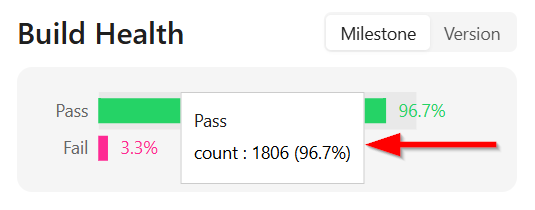
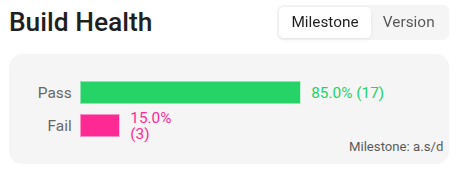
dashboard docs

diff --git a/docs/zeuz-server/dashboard-page.md b/docs/zeuz-server/dashboard-page.md
@@ -1,18 +1,41 @@
 ---
 id: dashboard-page
-title: Dashboard Page
+title: Dashboard
 sidebar_position: 1
 ---
 
 import Highlight from '@site/src/components/Highlight';
 
-The Dashboard page is the main overview screen of a software platform that displays key information, metrics, and summaries in a single place. It gives users a quick understanding of the current status of their projects, tests, or system health.
+import MetaCard from '@site/src/components/MetaCard';
 
-![](/img/dashboard-page/Dashboard.png)
+The ZeuZ dashboard is the main overview screen that gives you a quick look at your projects, tests, and overall system health.
+It provides key metrics, summaries, and information to help you understand what's happening at a glance.
 
----
+<MetaCard
+  availableFrom="20250712"
+  difficulty="🟢 Easy"
+  lastUpdated="17 Sep, 2025"
+  tags={["overview", "monitoring", "system metrics", "progress tracking", "test analytics", "performance insights", "visual summary"]}
+  relatedTopics={["ZeuZ features", "ZeuZ node", "zAI - Explain test case", "AI web recorder", "Data collector", "AI mobile inspector"]}
+/>
 
-## Explanation of the Dashboard Page
+![](/img/dashboard-page/full-dashboard.png)
+
+### Why it matters / Use Cases:
+
+  -   You immediately see _if your automation infrastructure is alive_: how many nodes are connected, license validity. If a node drops you don’t have to wait for manual reports. 
+	-   You catch quality shifts fast - “Build Health” and “Build Comparison” show at a glance whether a recent build broke things or got better. 
+	-   Prioritization becomes clear: failures in high priority (P1, P2) tests are highlighted, so you can focus on the biggest risks first.  
+	-   You see how much of your tests are automatable vs hard vs not automatable. That helps you plan: where to invest automation efforts. 
+	-   You can track momentum: how many test cases are being created daily - good for spotting slowdowns in coverage expansion. 
+	-   Scheduler status tells you if scheduled runs are failing so you don’t have “blind spots” in your test suite.  
+	-   Storage & orphaned test cases sections help maintain hygiene: clean up drift in test catalog & avoid wasted space or legacy cruft. 
+	-   GitHub integration gives traceability: link PR activity & issues with test results, good for debugging why things broke.
+
+## Prerequisites
+- The dashboard doesn’t require any setup. However, to get the most out of it, we recommend maintaining milestones and integrating GitHub.
+
+## Features
 
 ### ZeuZ Node Area
 **1. ZeuZ Node Description Box**
@@ -28,12 +51,9 @@ The Dashboard page is the main overview screen of a software platform that displ
      - **Changelog**: Shows version updates and improvements.
      - **Docs**: Opens the full documentation for user guidance.
 
-![](/img/dashboard-page/dashboard-node.png)
+![](/img/dashboard-page/node-links.png)
 
-
----
-
-## License and Node Information
+### License and Node Information
 The node section has been added to display the license information. It also shows the list of currently connected nodes. This section will become scrollable if there are more than four connected nodes.
 
 Here is a summary of the details:
@@ -58,8 +78,6 @@ The connected nodes are:
 
 ![](/img/dashboard-page/license-node.png)
 
----
-
 ### Build Health
 Build Health refers to the overall quality and stability of a software build, as determined by the results of automated or manual test cases executed during the build process. It is basically a chart showing the pass and fail status of the current build.
 
@@ -75,17 +93,11 @@ Build Health displays two key metrics, such as:
 
 However, in the **Build Health** section, without requiring any hover action, it will now show percentage values beside the metrics, for example, test results: **94.3% Passed (33)** and **5.7% Failed (2)**. These insights will be visible directly, without the need to hover. Additionally, the selected **Milestone** or **Version** will be displayed below the build health summary. 
 
+![](/img/dashboard-page/build-health.png)
+
 :::note
 In the **Build Health** section, if no data is available, it will display as zero.
 :::
-
-### Example
-
-|  Build Health with Pass and Fail metrics  |  Build Health with No Data                |
-|-------------------------------------------|-------------------------------------------|
-| ![](/img/dashboard-page/build-count.png)  |  ![](/img/dashboard-page/build-zero.png)  |
-
----
 
 ### Automatability
 Automatability refers to how easily and effectively a test can be automated using automation tools or frameworks. In this context, the chart shown is a **Donut chart**, which is commonly used to represent proportions or distributions. The chart is divided into segments, each representing a different category of automatability.
@@ -103,16 +115,14 @@ Automatability refers to how easily and effectively a test can be automated usin
 
 Under our server, test cases are categorized based on their level of automatability. In the **Automatability** section, users can now view the total number of test cases and see what percentage of them are "Automated", "Easily Automatable", or "Hard to Automate", etc., without the need to hover.
 For example, there are:
-- **4886 automated test cases (84.5%)**, 
-- **866 test cases that are easily automatable (15.0%)**, 
-- **14 test cases that are hard to automate (0.2%)**, 
-- **6 test cases that are not automatable (0.1%)**, 
-- **7 test cases that are under performance (0.1%)**,  
-- **2 undefined test cases (0.0%)**.
+- **4937 automated test cases (85%)**, 
+- **866 test cases that are easily automatable (15%)**, 
+- **14 test cases that are hard to automate (0%)**, 
+- **6 test cases that are not automatable (0%)**, 
+- **7 test cases that are under performance (0%)**,  
+- **2 undefined test cases (0%)**.
 
-![](/img/dashboard-page/easily-automatable.png)
-
----
+![](/img/dashboard-page/automatability.png)
 
 ### Build Comparison
 Build Comparison refers to the process of comparing the test results of two or more software builds to identify changes in quality, functionality, or performance overtime.
@@ -130,14 +140,11 @@ At the top, there are toggle options for **Milestone** and **Version**. When **M
 
 Here, the **June** milestone is the current build, while the others are previous builds.
 
----
-
 ### PBC (Priority Based Comparison)
 Priority Based Comparison refers to the process of comparing test results based on the priority levels assigned to test cases. It allows users to analyze test results based on different priority levels, such as **P1**, **P2**, **P3** and **P4**.
 
 In case of **PBC (Priority Based Comparison)**, when the **Current**, **Previous**, **Milestone** or **Version** is selected, the selected **Current / Previous Milestone** or **Current / Previous Version** will be displayed below the PBC section. Additionally, as before, the **Fail** status includes both failed and blocked test cases, and the **Not Run** status includes both "Skipped" and "Submitted" test cases.
 
-### Example
 The following image displays a tooltip or data breakdown for a test priority category labeled **P1**. It shows the execution status of test cases under this priority:
 - **Pass: 30**  
   A total of thirty test cases have passed.
@@ -150,16 +157,10 @@ The following image displays a tooltip or data breakdown for a test priority cat
 
 The chart also displays the number of test cases that are passing, failing, and not running within each priority level. Additionally, hovering over the **Current** label reveals the name of the most recent build, and this comparison can be used across milestones or versions to track how test cases are performing based on their assigned priorities.
 
-![](/img/dashboard-page/pbc-chart.png)
-
----
-
 ### Test Case Create Velocity
 Test Case Create Velocity refers to the rate at which test cases are being created over a defined period of time. It mainly shows the number of test cases created each day over the past 30 days. It helps to understand the number of test cases on specific dates, providing a date-wise breakdown of test case creation activity.
 
 ![](/img/dashboard-page/test-velocity.png)
-
----
 
 ### Scheduler Health
 Scheduler Health refers to the current status of the schedulers in an automation system.
@@ -171,40 +172,31 @@ If a scheduler shows a **green** sign, it means the test was successfully execut
 
 ![](/img/dashboard-page/sche-health.png)
 
----
-
 ### Orphaned Test Cases
 Orphaned Test Cases are test cases that are no longer linked to any active or valid test set. They exist in the system but are not part of any current testing activity or structure.
 
 ![](/img/dashboard-page/orphaned-test-cases.png)
 
----
-
 ### Storage
 The Storage section has been upgraded. It now displays a visual design on the right side, along with detailed information showing how much space each item is using. For example:
-- **Free Space (6.65 GB)**
-- **Logs & Reports (0.76 GB)**
-- **Test Cases (0.07 GB)**
-- **Files & Downloads (0.4 GB)**
-- **Backups (0.16 GB)**
-- **OS & Others (40.3399 GB)**.
+- **Free Space (8 GB)**
+- **Logs & Reports (2 GB)**
+- **Test Cases (1 GB)**
+- **Files & Downloads (1 GB)**
+- **Backups (1 GB)**
+- **OS & Others (39 GB)**.
 
-![](/img/dashboard-page/storage-space.png)
-
----
+![](/img/dashboard-page/storage.png)
 
 ### GitHub Stats and GitHub Activity
 1. The **Dashboard** will display **GitHub Stats** and **GitHub Activity** for the selected repositories.
-
-![](/img/dashboard-page/github-activity.png)
-
 2. By default, the first selected repository is displayed.
 3. Multiple repositories can be displayed depending on the selection during integration.
 4. A **Start Date** and **End Date** can be applied to filter the displayed data.
 5. The displayed information includes the count of **Closed Bugs**, **Tasks**, and **Requirements** within the selected date range, followed by the count **Created Bugs**, **Tasks**, and **Requirements** for the same date range.
 6. The number of **Open**, **Merged**, and **Closed** pull requests will be displayed under the Pull Request section.
 
-![](/img/dashboard-page/default-repository.png)
+![](/img/dashboard-page/github-stats.png)
 
 7. On the other hand, the table can be filtered by **Pull Requests** or **Issues** within the selected date range:
 - Issues can be **Open** or **Closed**.
@@ -212,7 +204,50 @@ The Storage section has been upgraded. It now displays a visual design on the ri
 
 8. Users can click on any **Pull Request** or **Issue** to navigate to it in **GitHub**. Pagination is available to view additional data if more entries are available.
 
-![](/img/dashboard-page/github-merge.png)
+![](/img/dashboard-page/github-image.png)
+
+## FAQs
+
+<details>
+<summary>What information can I view on the dashboard?</summary> 
+
+The dashboard provides an overview of builds, test cases, scheduler health, storage usage, and linked integrations such as GitHub or Jira.
+
+</details>
+
+<details>
+<summary>How often does the dashboard data refresh?</summary> 
+
+The dashboard updates automatically at set intervals, but users can also refresh it manually.
+
+</details>
+
+<details>
+<summary>Can I filter dashboard data by project or date range?</summary> 
+
+Yes, filters are available to narrow down information by project, team, or specific date ranges.
+
+</details>
+
+<details>
+<summary>Does the dashboard show real-time execution results?</summary> 
+
+Yes, the dashboard reflects live updates from ongoing test executions.
+
+</details>
+
+## Changelog
+
+- [ZeuZ Platform 20250712 -> Dasboard Update](https://docs.zeuz.ai/blog/zeuz-platform-20250712/#zeuz-dashboard)
+
+## Related Topics
+
+- [ZeuZ features](https://docs.zeuz.ai/docs/zeuz-node/zeuz-features/)
+- [ZeuZ Node](https://docs.zeuz.ai/docs/zeuz-node/)
+- [zAI - Explain Test Case](https://docs.zeuz.ai/docs/zeuz-server/zAI/zAI-explain-test-case/)
+- [AI Web Recorder](https://docs.zeuz.ai/docs/Apps/ai-web-recorder/)
+- [Data Collector](https://docs.zeuz.ai/docs/zeuz-node/data-collector/)
+- [AI Mobile Inspector](https://docs.zeuz.ai/docs/Apps/ai-mobile-inspector/)
 
 ---
 
